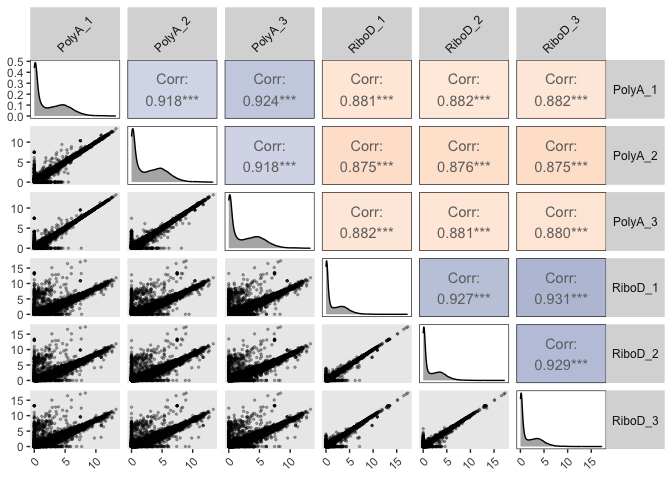
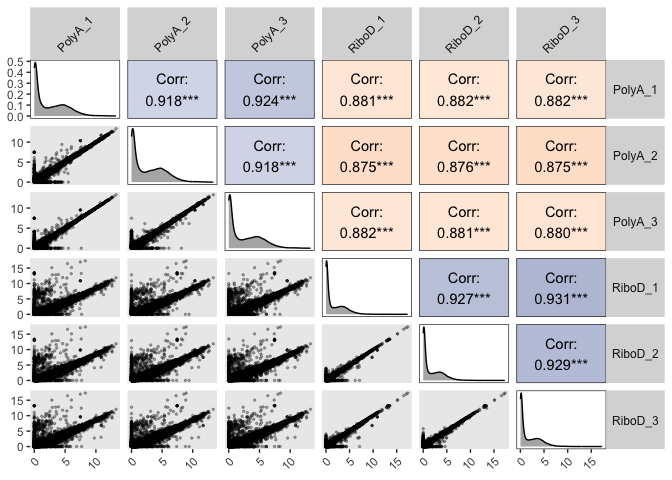
THR13_0970_S12-S17 correlogram updates

diff --git a/THR13_0970_S12-S17/THR13_0970_S12-S17_correlogram.md b/THR13_0970_S12-S17/THR13_0970_S12-S17_correlogram.md
@@ -96,7 +96,7 @@ cor_color_fn <- function(data, mapping, ...) {
   corr <- eval_data_col(data, mapping$x) %>%
     cor(eval_data_col(data, mapping$y), method = "spearman", use = "pairwise.complete.obs")
   
-  ggally_cor(data, mapping, method = "spearman") +
+  ggally_cor(data, mapping, method = "spearman", colour = I("black")) +
     theme_bw() +
     theme(panel.background = element_rect(
       fill = scales::col_numeric(c("#ec944d", "white", "#084c8b"), c(0.8,1))(corr)
@@ -387,6 +387,234 @@ rsem_ggpairs_plot_nexpressed
 # )
 ```
 
+#### Applying a variance filter to correlogram
+
+First, remove all genes where, for that gene, more than 80% of samples
+have an expression of 0 (in this case, remove genes where 5 out of 6
+datasets have expression of 0).
+
+From the remaining genes, sort them by variance (or standard deviation,
+either way) of expression within the matrix – then remove the 20% of
+genes that are the least variant. (So if we had 30,000 genes after
+removing those that failed the expression filter, we would remove the
+bottom 6,000.)
+
+``` r
+DIPGIV_expr_filter_zero <- rsem_wide %>%
+  filter(rowSums(across(c(everything())) == 0) < 5)
+
+nrow(rsem_wide)
+```
+
+    [1] 60498
+
+``` r
+nrow(DIPGIV_expr_filter_zero)
+```
+
+    [1] 31588
+
+``` r
+DIPGIV_expr_filter_zero_variance <- DIPGIV_expr_filter_zero %>%
+  rowwise() %>%
+  mutate(row_sd = sd(c_across(-ensembl_gene_ID), na.rm = TRUE)) %>%
+  ungroup() %>%
+  arrange(row_sd) %>%
+  slice_tail(prop = 0.8)
+
+nrow(DIPGIV_expr_filter_zero_variance)
+```
+
+    [1] 25270
+
+``` r
+# integrate density plot with coefficient value and color by coefficient value
+
+cor_color_fn2 <- function(data, mapping, ...) {
+  corr <- eval_data_col(data, mapping$x) %>%
+    cor(eval_data_col(data, mapping$y), method = "spearman", use = "pairwise.complete.obs")
+  
+  ggally_cor(data, mapping, method = "spearman", colour = I("black")) +
+    theme_bw() +
+    theme(panel.background = element_rect(
+      fill = scales::col_numeric(c("#ec944d", "white", "#084c8b"), c(0.9,1))(corr)
+    ),
+    panel.grid = element_blank())
+}
+
+# with scatterplot
+DIPGIV_expr_filter_zero_variance_plot <- DIPGIV_expr_filter_zero_variance %>%
+  column_to_rownames("ensembl_gene_ID") %>%
+  select(-row_sd) %>%
+  ggpairs(
+  DIPGIV_expr_filter_zero_variance,
+  lower = list(continuous = wrap(scatter_fixed_axes)),
+  upper = list(continuous = wrap(cor_color_fn2, method = "spearman")),
+  diag = list(continuous = wrap(diag_filtered_density))
+  # diag = list(continuous = "blank")
+) +
+  theme(axis.text.x = element_text(angle = 45, hjust = 1)) +
+  theme(
+    strip.text.y = element_text(angle = 0, size = 9),
+    strip.text.x = element_text(angle = 45, size = 9)
+  ) +
+  theme(panel.grid = element_blank())
+DIPGIV_expr_filter_zero_variance_plot
+```
+
+    Warning in cor.test.default(x, y, method = method): Cannot compute exact
+    p-value with ties
+    Warning in cor.test.default(x, y, method = method): Cannot compute exact
+    p-value with ties
+    Warning in cor.test.default(x, y, method = method): Cannot compute exact
+    p-value with ties
+    Warning in cor.test.default(x, y, method = method): Cannot compute exact
+    p-value with ties
+    Warning in cor.test.default(x, y, method = method): Cannot compute exact
+    p-value with ties
+    Warning in cor.test.default(x, y, method = method): Cannot compute exact
+    p-value with ties
+    Warning in cor.test.default(x, y, method = method): Cannot compute exact
+    p-value with ties
+    Warning in cor.test.default(x, y, method = method): Cannot compute exact
+    p-value with ties
+    Warning in cor.test.default(x, y, method = method): Cannot compute exact
+    p-value with ties
+    Warning in cor.test.default(x, y, method = method): Cannot compute exact
+    p-value with ties
+    Warning in cor.test.default(x, y, method = method): Cannot compute exact
+    p-value with ties
+    Warning in cor.test.default(x, y, method = method): Cannot compute exact
+    p-value with ties
+    Warning in cor.test.default(x, y, method = method): Cannot compute exact
+    p-value with ties
+    Warning in cor.test.default(x, y, method = method): Cannot compute exact
+    p-value with ties
+    Warning in cor.test.default(x, y, method = method): Cannot compute exact
+    p-value with ties
+
+![](THR13_0970_S12-S17_correlogram_files/figure-commonmark/DIPGIV_expr_filter_zero_variance_plot-1.png)
+
+``` r
+# ggsave(
+#   "DIPGIV_expr_filter_zero_variance_plot.png",
+#   DIPGIV_expr_filter_zero_variance_plot,
+#   width = 10, height = 10, units = "in", dpi = 300
+# )
+```
+
+Some genes have very low but not quite zero expression
+(i.e. ENSG00000000005.5 has values of
+0.02856915, 0.01435529, 0.05658353, 0.16349873, 0.04264434, and
+0.16349873). 
+
+Going to remove genes where 5 or more out of 6 samples have expression
+\< 1
+
+``` r
+DIPGIV_expr_filter_one <- rsem_wide %>%
+  filter(rowSums(across(c(everything())) < 1) < 5)
+
+nrow(rsem_wide)
+```
+
+    [1] 60498
+
+``` r
+nrow(DIPGIV_expr_filter_one)
+```
+
+    [1] 14946
+
+``` r
+DIPGIV_expr_filter_one_variance <- DIPGIV_expr_filter_one %>%
+  rowwise() %>%
+  mutate(row_sd = sd(c_across(-ensembl_gene_ID), na.rm = TRUE)) %>%
+  ungroup() %>%
+  arrange(row_sd) %>%
+  slice_tail(prop = 0.8)
+
+nrow(DIPGIV_expr_filter_one_variance)
+```
+
+    [1] 11956
+
+``` r
+# integrate density plot with coefficient value and color by coefficient value
+
+cor_color_fn3 <- function(data, mapping, ...) {
+  corr <- eval_data_col(data, mapping$x) %>%
+    cor(eval_data_col(data, mapping$y), method = "spearman", use = "pairwise.complete.obs")
+
+  ggally_cor(data, mapping, method = "spearman", colour = I("black")) +
+    theme_bw() +
+    theme(panel.background = element_rect(
+      fill = scales::col_numeric(c("#ec944d", "white", "#084c8b"), c(0.88,1))(corr)
+    ),
+    panel.grid = element_blank())
+}
+
+# with scatterplot
+DIPGIV_expr_filter_one_variance_plot <- DIPGIV_expr_filter_one_variance %>%
+  column_to_rownames("ensembl_gene_ID") %>%
+  select(-row_sd) %>%
+  ggpairs(
+  DIPGIV_expr_filter_one_variance,
+  lower = list(continuous = wrap(scatter_fixed_axes)),
+  upper = list(continuous = wrap(cor_color_fn3, method = "spearman")),
+  diag = list(continuous = wrap(diag_filtered_density))
+  # diag = list(continuous = "blank")
+) +
+  theme(axis.text.x = element_text(angle = 45, hjust = 1)) +
+  theme(
+    strip.text.y = element_text(angle = 0, size = 9),
+    strip.text.x = element_text(angle = 45, size = 9)
+  ) +
+  theme(panel.grid = element_blank())
+DIPGIV_expr_filter_one_variance_plot
+```
+
+    Warning in cor.test.default(x, y, method = method): Cannot compute exact
+    p-value with ties
+    Warning in cor.test.default(x, y, method = method): Cannot compute exact
+    p-value with ties
+    Warning in cor.test.default(x, y, method = method): Cannot compute exact
+    p-value with ties
+    Warning in cor.test.default(x, y, method = method): Cannot compute exact
+    p-value with ties
+    Warning in cor.test.default(x, y, method = method): Cannot compute exact
+    p-value with ties
+    Warning in cor.test.default(x, y, method = method): Cannot compute exact
+    p-value with ties
+    Warning in cor.test.default(x, y, method = method): Cannot compute exact
+    p-value with ties
+    Warning in cor.test.default(x, y, method = method): Cannot compute exact
+    p-value with ties
+    Warning in cor.test.default(x, y, method = method): Cannot compute exact
+    p-value with ties
+    Warning in cor.test.default(x, y, method = method): Cannot compute exact
+    p-value with ties
+    Warning in cor.test.default(x, y, method = method): Cannot compute exact
+    p-value with ties
+    Warning in cor.test.default(x, y, method = method): Cannot compute exact
+    p-value with ties
+    Warning in cor.test.default(x, y, method = method): Cannot compute exact
+    p-value with ties
+    Warning in cor.test.default(x, y, method = method): Cannot compute exact
+    p-value with ties
+    Warning in cor.test.default(x, y, method = method): Cannot compute exact
+    p-value with ties
+
+![](THR13_0970_S12-S17_correlogram_files/figure-commonmark/DIPGIV_expr_filter_one_variance_plot-1.png)
+
+``` r
+# ggsave(
+#   "DIPGIV_expr_filter_one_variance_plot.png",
+#   DIPGIV_expr_filter_one_variance_plot,
+#   width = 10, height = 10, units = "in", dpi = 300
+# )
+```
+
 Session Info
 
 ``` r
@@ -403,7 +631,7 @@ sessioninfo::session_info()
      collate  en_US.UTF-8
      ctype    en_US.UTF-8
      tz       America/Los_Angeles
-     date     2026-09-21
+     date     2026-09-23
      pandoc   3.8.3 @ /Applications/RStudio.app/Contents/Resources/app/quarto/bin/tools/aarch64/ (via rmarkdown)
      quarto   1.9.36 @ /Applications/RStudio.app/Contents/Resources/app/quarto/bin/quarto
 
